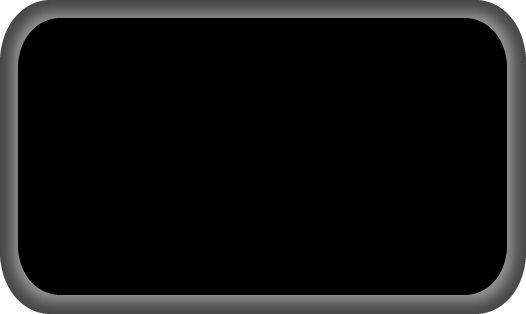
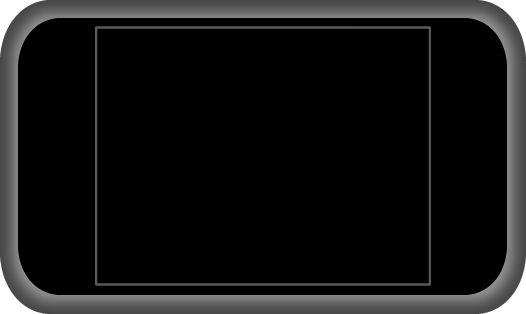
Ahora tiene el panel que permitira la reproducción

Changed region(s): [[0.1825, 0.0573, 0.8213, 0.9172]]

diff --git a/MusicP/src/interfaz/componentes/PanelReproduccion.java b/MusicP/src/interfaz/componentes/PanelReproduccion.java
@@ -1,0 +1,63 @@
+package interfaz.componentes;
+
+import java.awt.AlphaComposite;
+import java.awt.BasicStroke;
+import java.awt.Color;
+import java.awt.Composite;
+import java.awt.Graphics;
+import java.awt.Graphics2D;
+import java.awt.RenderingHints;
+import java.awt.Shape;
+import java.awt.geom.Rectangle2D;
+import java.awt.geom.RoundRectangle2D;
+
+import javax.swing.JPanel;
+
+public class PanelReproduccion extends JPanel{
+
+	/**
+	 *
+	 */
+	private static final long serialVersionUID = 1L;
+	private Shape cuadrado;
+
+	public PanelReproduccion() {
+		cuadrado=construirCuadrado();
+	}
+
+	private Shape construirCuadrado() {
+		Shape cuadrado=new RoundRectangle2D.Float(1, 1, 262, 66, 20, 20);
+		return cuadrado;
+	}
+
+	@Override
+	public void paintComponent(Graphics g){
+		Graphics2D g2 = (Graphics2D) g;
+		g2.setRenderingHint(RenderingHints.KEY_ANTIALIASING,
+				RenderingHints.VALUE_ANTIALIAS_ON);
+
+		Composite oldComposite=g2.getComposite();
+
+		g2.setComposite(AlphaComposite.SrcOver.derive(0.5f));
+		g2.setColor(Color.darkGray);
+		g2.translate(6, 6);
+		g2.fill(cuadrado);
+
+		g2.setComposite(oldComposite);
+		g2.translate(-6, -6);
+
+		g2.setClip(new Rectangle2D.Float(0, 0, 262, 33));
+		g2.setColor(new Color(0.51f, 0.51f, 0.51f, 0.3f));
+		g2.fill(cuadrado);
+
+		g2.setClip(new Rectangle2D.Float(0, 33, 262, 33));
+		g2.setColor(new Color(0, 0, 0, 0.7f));
+		g2.fill(cuadrado);
+
+		g2.setClip(new Rectangle2D.Float(0, 0, this.getWidth(), this.getHeight()));
+		g2.setColor(new Color(153, 153, 153));
+		g2.setStroke(new BasicStroke(2));
+		g2.draw(cuadrado);
+	}
+
+}

diff --git a/MusicP/src/interfaz/Ventana.java b/MusicP/src/interfaz/Ventana.java
@@ -4,6 +4,7 @@ import interfaz.componentes.BotonApagar;
 import interfaz.componentes.BotonMinimizar;
 import interfaz.componentes.Brillo;
 import interfaz.componentes.Fondo;
+import interfaz.componentes.PanelReproduccion;
 
 import java.awt.event.ActionEvent;
 import java.awt.event.ActionListener;
@@ -14,6 +15,7 @@ import java.awt.event.MouseMotionAdapter;
 import javax.swing.JButton;
 import javax.swing.JComponent;
 import javax.swing.JFrame;
+import javax.swing.JLayeredPane;
 import javax.swing.JOptionPane;
 import javax.swing.JPanel;
 
@@ -27,6 +29,7 @@ public class Ventana extends JFrame {
 	private JButton apagar;
 	private JButton minimizar;
 	private JComponent brillo;
+	private JPanel reproductor;
 	// variables para el drag&drop
 	private int xi;
 	private int yi;
@@ -75,6 +78,8 @@ public class Ventana extends JFrame {
 	}
 
 	private void iniciarComponentes() {
+		JLayeredPane lp=this.getLayeredPane();
+
 		fondo = new Fondo();
 		fondo.setLayout(null);
 		fondo.setBounds(7, 15, 526, 314);
@@ -94,6 +99,9 @@ public class Ventana extends JFrame {
 		this.setGlassPane(brillo);
 		this.getGlassPane().setVisible(true);
 
+		reproductor=new PanelReproduccion();
+		reproductor.setBounds(139, 225, 271, 73);
+		lp.add(reproductor, new Integer(2));
 	}
 
 	// **************eventos********************

diff --git a/MusicP/src/interfaz/componentes/BotonApagar.java b/MusicP/src/interfaz/componentes/BotonApagar.java
@@ -93,7 +93,7 @@ public class BotonApagar extends JButton {
 
 	private Shape construirBrillo() {
 		Shape brillo=boton;
-		Shape corte=new Ellipse2D.Float(-8, -9, 68, 50);
+		Shape corte=new Ellipse2D.Float(-8, -8, 68, 50);
 
 		Area a1=new Area(brillo);
 		Area a2=new Area(corte);
@@ -103,7 +103,7 @@ public class BotonApagar extends JButton {
 	}
 
 	private Shape construirCuadrado() {
-		Shape cuadrado = new RoundRectangle2D.Float(14, 14, 26, 26, 118, 118);
+		Shape cuadrado = new RoundRectangle2D.Float(14, 14, 26, 26, 18, 18);
 
 		return cuadrado;
 	}

diff --git a/MusicP/src/interfaz/componentes/BotonMinimizar.java b/MusicP/src/interfaz/componentes/BotonMinimizar.java
@@ -40,7 +40,7 @@ public class BotonMinimizar extends JButton {
 		setBorderPainted(false);
 		this.setToolTipText("Minimizar");
 		setForeground(Color.WHITE);
-		background = new Color(0x333333).darker();
+		background = new Color(0x333333).darker().darker().darker();
 		shineColor = Color.WHITE;
 	}
 
